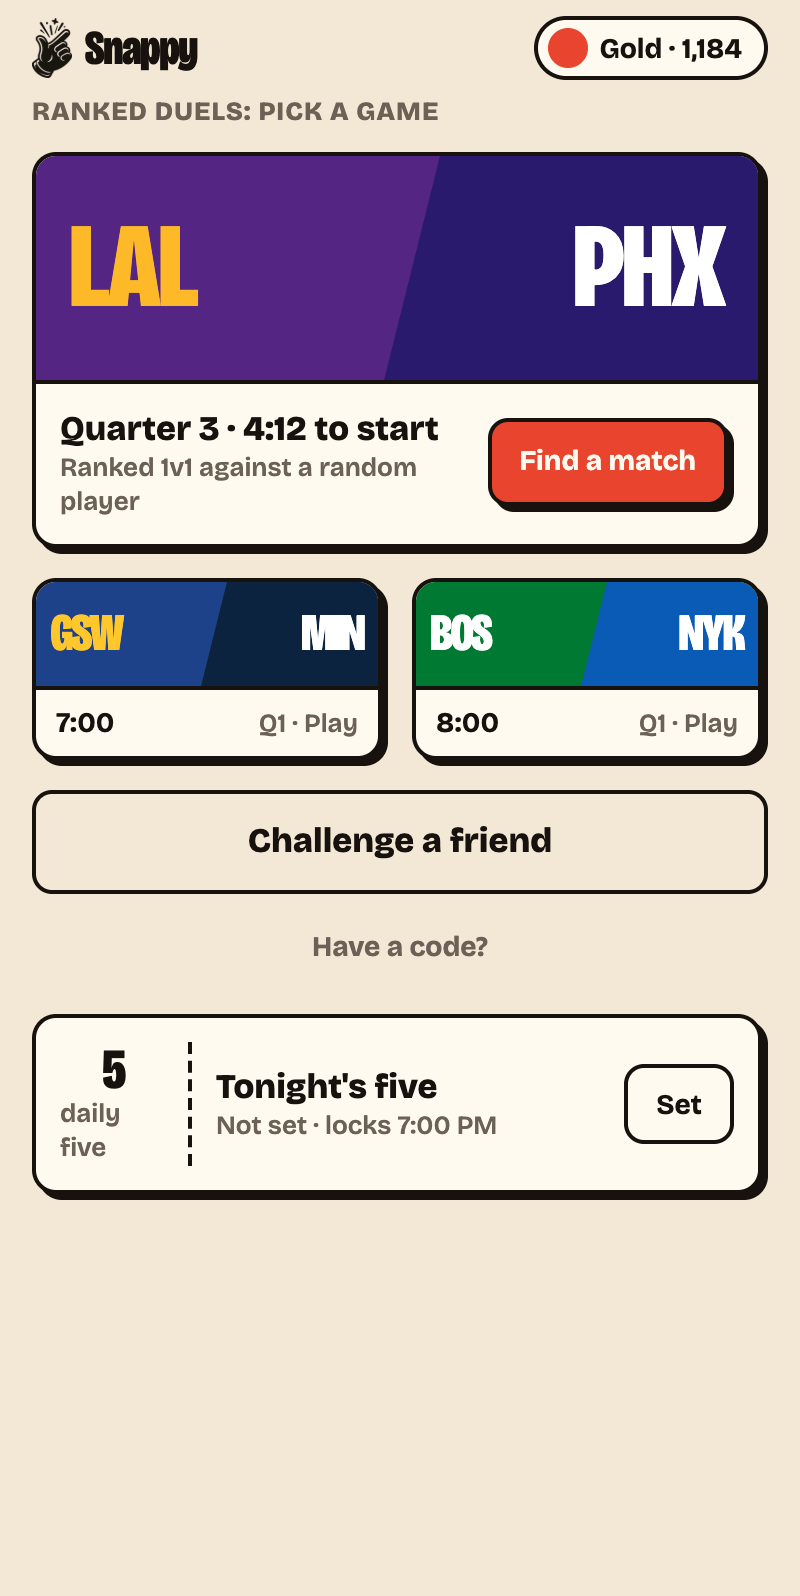
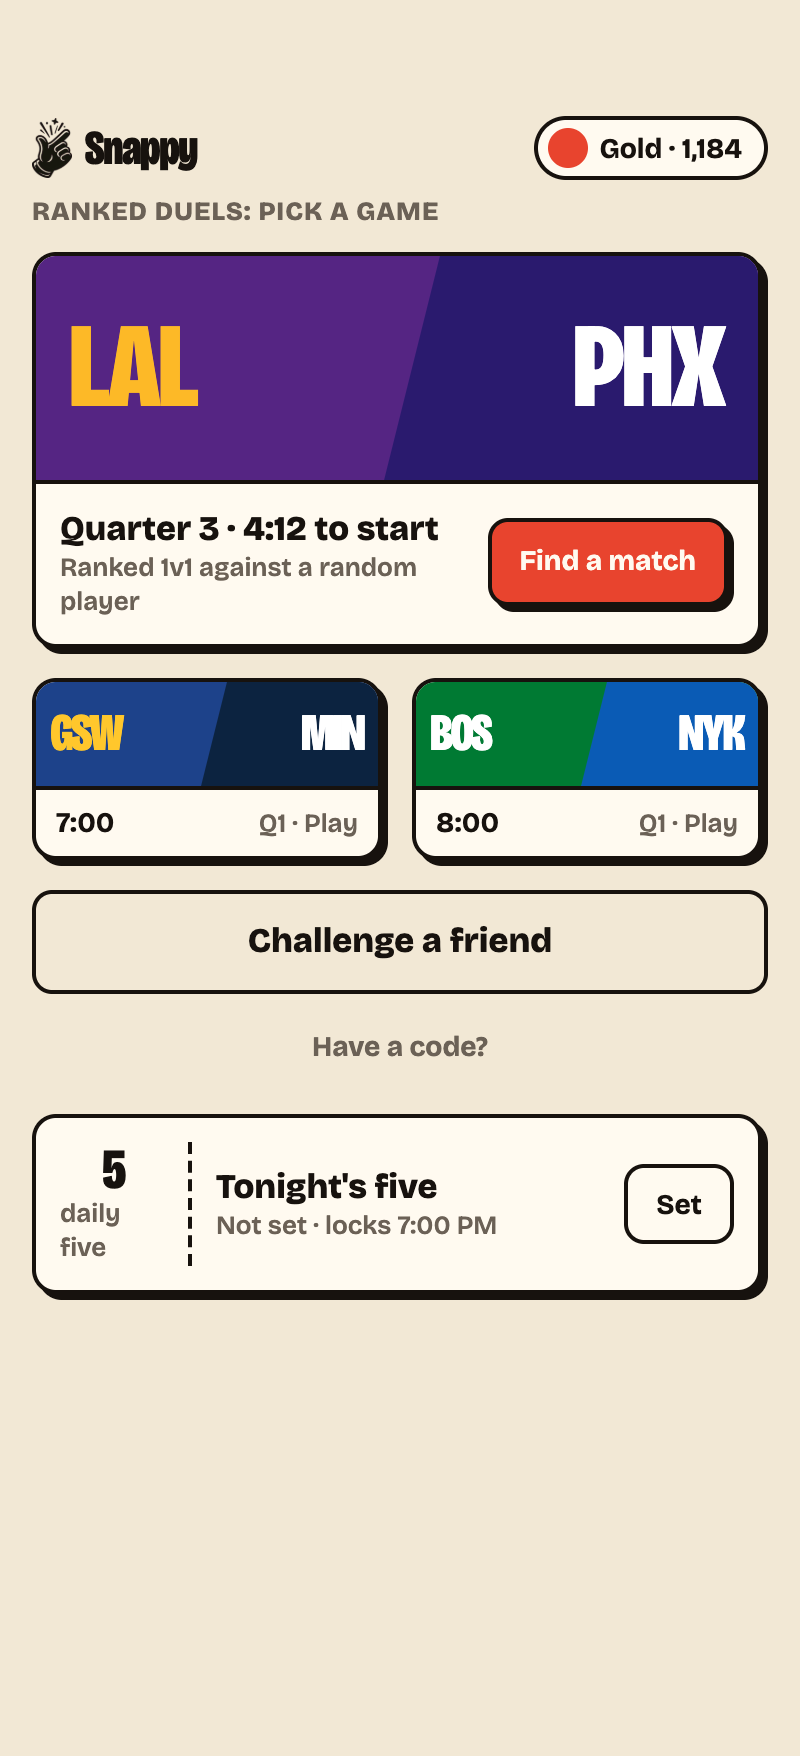
Give Snappy screens safe-area margins so the rounded frame stops clipping them

Changed region(s): [[0.0312, 0.0, 0.9688, 0.614], [0.0312, 0.6447, 0.9688, 0.7675]]

diff --git a/src/app/work/snappy/page.tsx b/src/app/work/snappy/page.tsx
@@ -30,7 +30,7 @@ export default function SnappyPage() {
         <ul className="flex snap-x snap-mandatory scroll-px-(--gutter) gap-3 md:grid md:grid-cols-6 md:gap-4">
           {snappy.screens.map((s) => (
             <li key={s.src} className="w-[44vw] shrink-0 snap-start md:w-auto">
-              <div className="relative aspect-[400/798] w-full overflow-hidden rounded-xl border-[1.5px] border-ink bg-paper md:rounded-2xl">
+              <div className="relative aspect-[400/878] w-full overflow-hidden rounded-xl border-[1.5px] border-ink bg-paper md:rounded-2xl">
                 <Image
                   src={s.src}
                   alt={`Snappy app screen: ${s.label}`}

diff --git a/src/app/page.tsx b/src/app/page.tsx
@@ -133,7 +133,7 @@ export default function Home() {
           {snappy.screens.slice(0, 3).map((s) => (
             <div
               key={s.src}
-              className="relative aspect-[400/798] w-1/3 max-w-40 overflow-hidden rounded-xl border-[1.5px] border-ink bg-paper md:rounded-2xl"
+              className="relative aspect-[400/878] w-1/3 max-w-40 overflow-hidden rounded-xl border-[1.5px] border-ink bg-paper md:rounded-2xl"
             >
               <Image
                 src={s.src}
